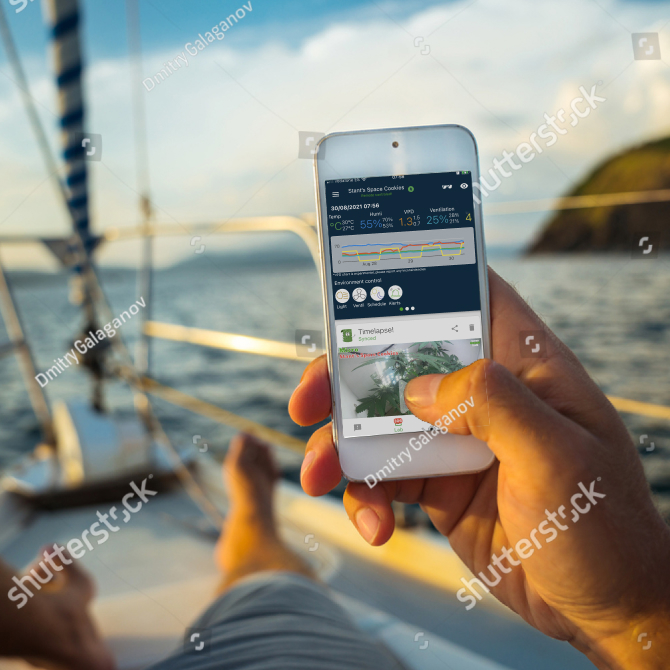
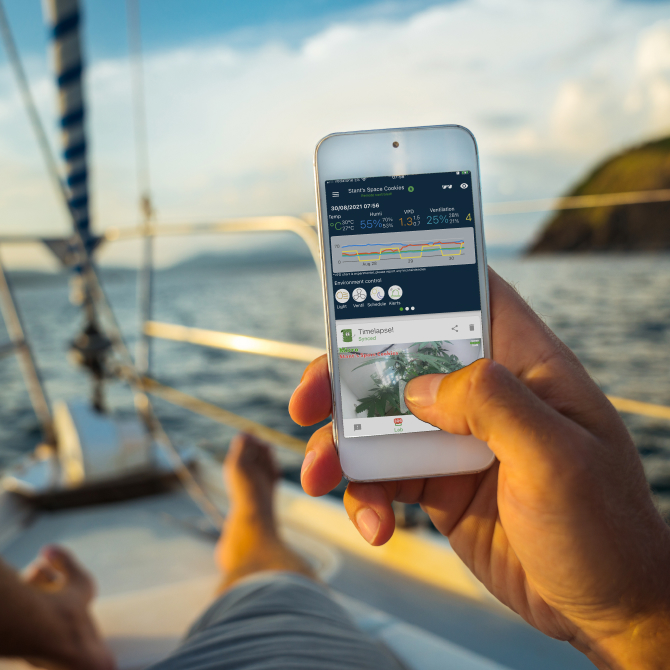
remove shutterstock watermark

diff --git a/components/shop/containers/horizontalcontainer.vue b/components/shop/containers/horizontalcontainer.vue
@@ -18,7 +18,7 @@
 
 <template>
   <section :id='$style.container'>
-    <div v-if='config.title' :class='$style.title'>
+    <div v-if='config.title' :id='$style.title'>
       <SectionTitle v-if='config.title'
                     :title='config.title'
                     center='true'
@@ -57,11 +57,11 @@ export default {
   display: flex
   margin: 5pt 10pt
 
-.title
+#title
   font-family: Roboto
   margin: 30pt 0 30pt 0
   @media only screen and (max-width: 600px)
-    margin: 0
+    margin: 0 0 10pt 0
 
 #pic
   width: 100pt

diff --git a/components/shop/containers/verticalcontainer.vue b/components/shop/containers/verticalcontainer.vue
@@ -18,7 +18,7 @@
 
 <template>
   <section :id='$style.container'>
-    <div v-if='config.title' :class='$style.title'>
+    <div v-if='config.title' :id='$style.title'>
       <SectionTitle v-if='config.title'
                     :title='config.title'
                     center='true'
@@ -56,11 +56,11 @@ export default {
   display: flex
   margin: 5pt 10pt
 
-.title
+#title
   font-family: Roboto
   margin: 30pt 0 30pt 0
   @media only screen and (max-width: 600px)
-    margin: 0
+    margin: 0 0 10pt 0
 
 #pic
   width: 100pt
